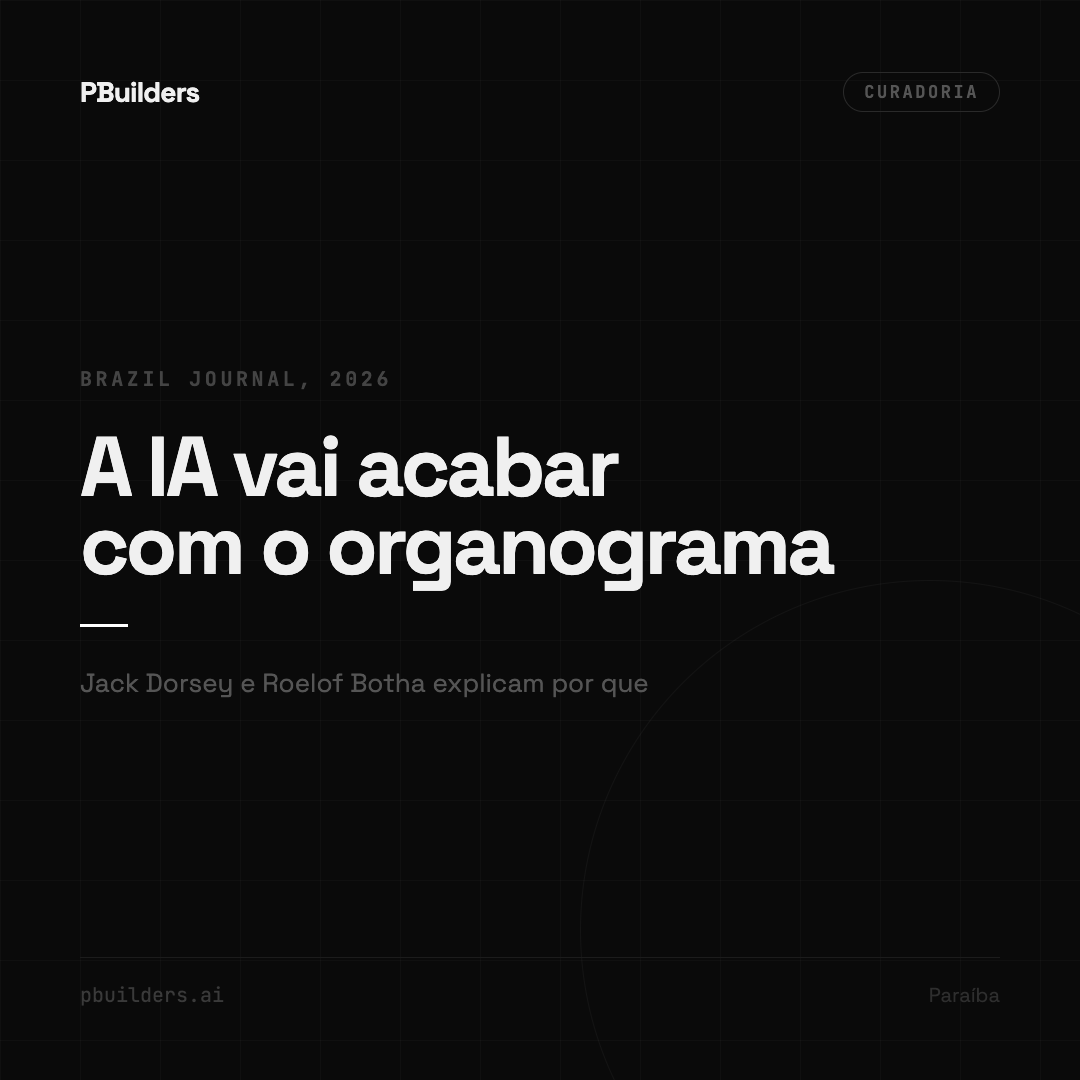
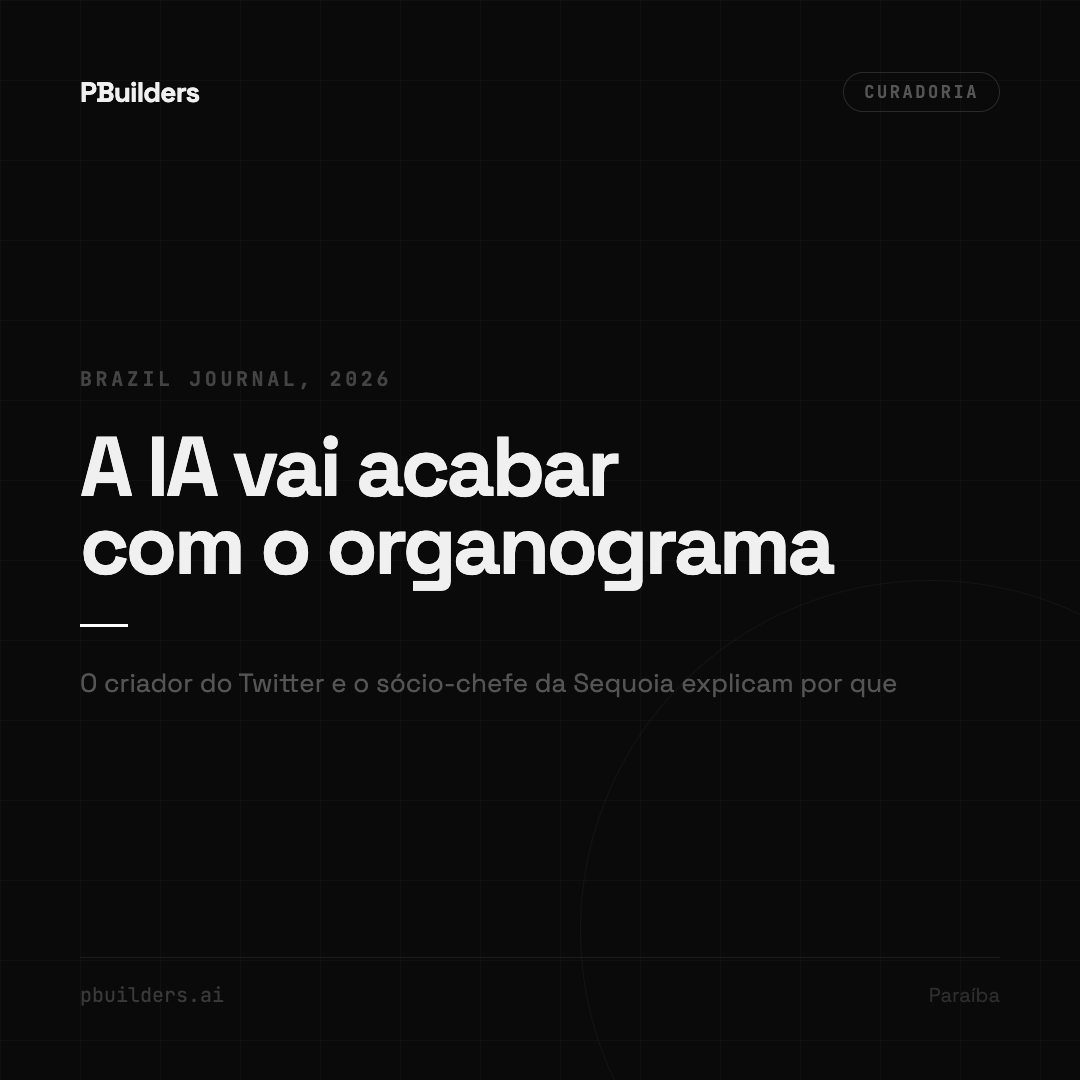
Middle management: contextualizar identidade de Dorsey e Botha no cover e post WhatsApp

Changed region(s): [[0.0611, 0.6111, 0.825, 0.6417]]

diff --git a/content/2026-04-08-middle-management/whatsapp-cover.html b/content/2026-04-08-middle-management/whatsapp-cover.html
@@ -156,7 +156,7 @@
       </div>
       <div class="accent-line"></div>
       <div class="subline">
-        Jack Dorsey e Roelof Botha explicam por que
+        O criador do Twitter e o sócio-chefe da Sequoia explicam por que
       </div>
     </div>
 

diff --git a/content/2026-04-08-middle-management/whatsapp.md b/content/2026-04-08-middle-management/whatsapp.md
@@ -2,7 +2,7 @@
 
 Quantas camadas de gerência tem a sua empresa?
 
-Jack Dorsey (Block) e Roelof Botha (Sequoia) publicaram uma tese: a IA vai eliminar o middle management. A Block já cortou 40% da equipe aplicando isso.
+O criador do Twitter e o sócio-chefe da Sequoia Capital publicaram uma tese: a IA vai eliminar o middle management. A Block (empresa do Dorsey) já cortou 40% da equipe aplicando isso.
 
 O argumento: gerentes existem pra coordenar. A IA coordena melhor, mais rápido e sem telefone sem fio.
 
